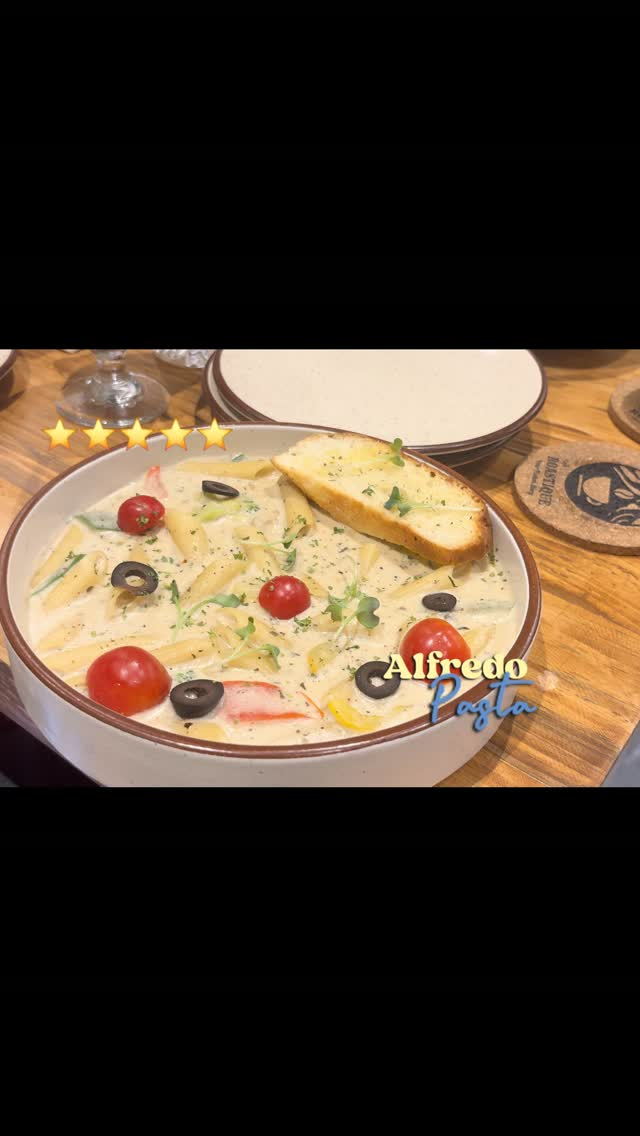
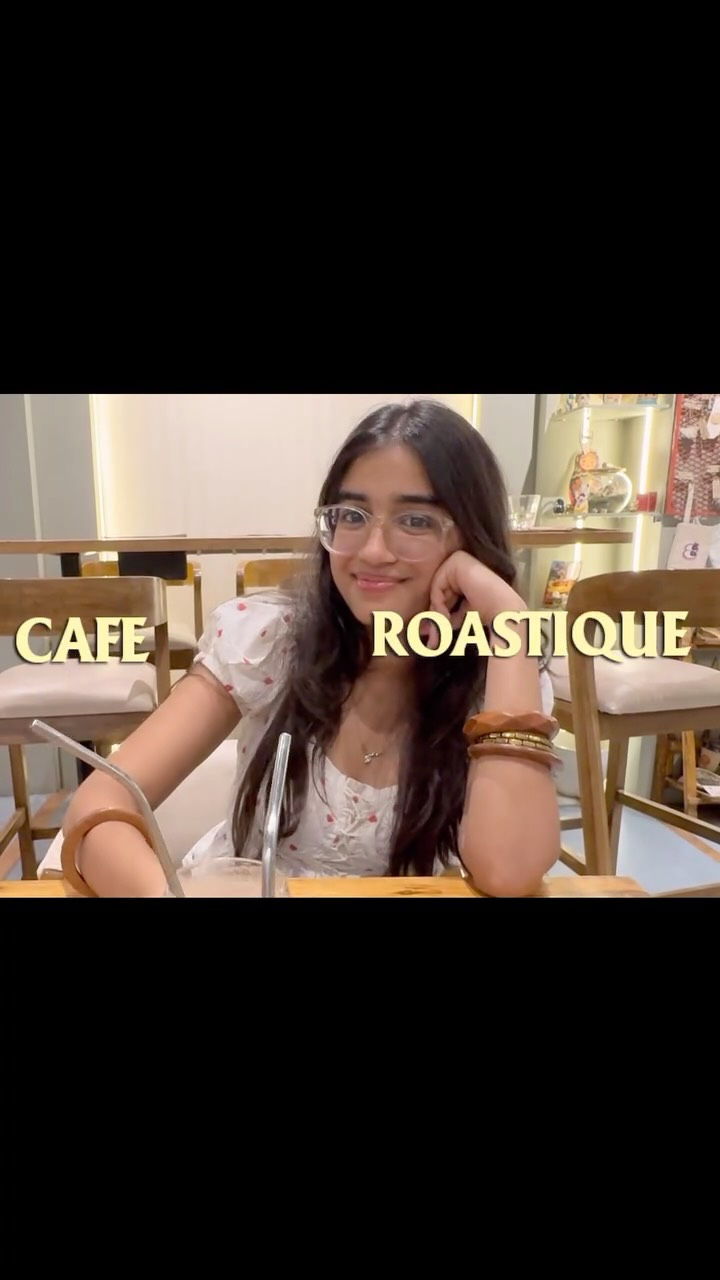
updated past colab section

diff --git a/index.html b/index.html
@@ -393,6 +393,40 @@
 
                 </div>
 
+                    <!-- 5th REEL -->
+                    <a href="https://www.instagram.com/reel/DcQwjjOzTO1/?utm_source=ig_web_copy_link&igsi=MzRlODBiNWFlZA=="
+                        target="_blank" class="reel-card">
+                        <img src="/images/reel5.jpg" alt="Reel">
+                        <div class="reel-play-btn">
+                            <svg viewBox="0 0 24 24" fill="currentColor" width="20" height="20">
+                                <path d="M8 5v14l11-7z" />
+                            </svg>
+                        </div>
+                        <div class="reel-content">
+                            <h3>lifeofshrachi and Gimi Michi</h3>
+                            <p>1k+ Views</p>
+                        </div>
+                    </a>
+
+                </div>
+
+                    <!-- 6th REEL -->
+                    <a href="https://www.instagram.com/reel/DcgijVbzdhU/?utm_source=ig_web_copy_link&igsi=MzRlODBiNWFlZA=="
+                        target="_blank" class="reel-card">
+                        <img src="/images/reel6.jpg" alt="Reel">
+                        <div class="reel-play-btn">
+                            <svg viewBox="0 0 24 24" fill="currentColor" width="20" height="20">
+                                <path d="M8 5v14l11-7z" />
+                            </svg>
+                        </div>
+                        <div class="reel-content">
+                            <h3>lifeofshrachi and Gianis</h3>
+                            <p>2.4k+ Views</p>
+                        </div>
+                    </a>
+
+                </div>
+
                 <button class="carousel-btn next-btn" aria-label="Next Reel">
                     <svg viewBox="0 0 24 24" width="24" height="24">
                         <path fill="currentColor" d="M8.59 16.58L13.17 12 8.59 7.41 10 6l6 6-6 6-1.41-1.42z"/>
